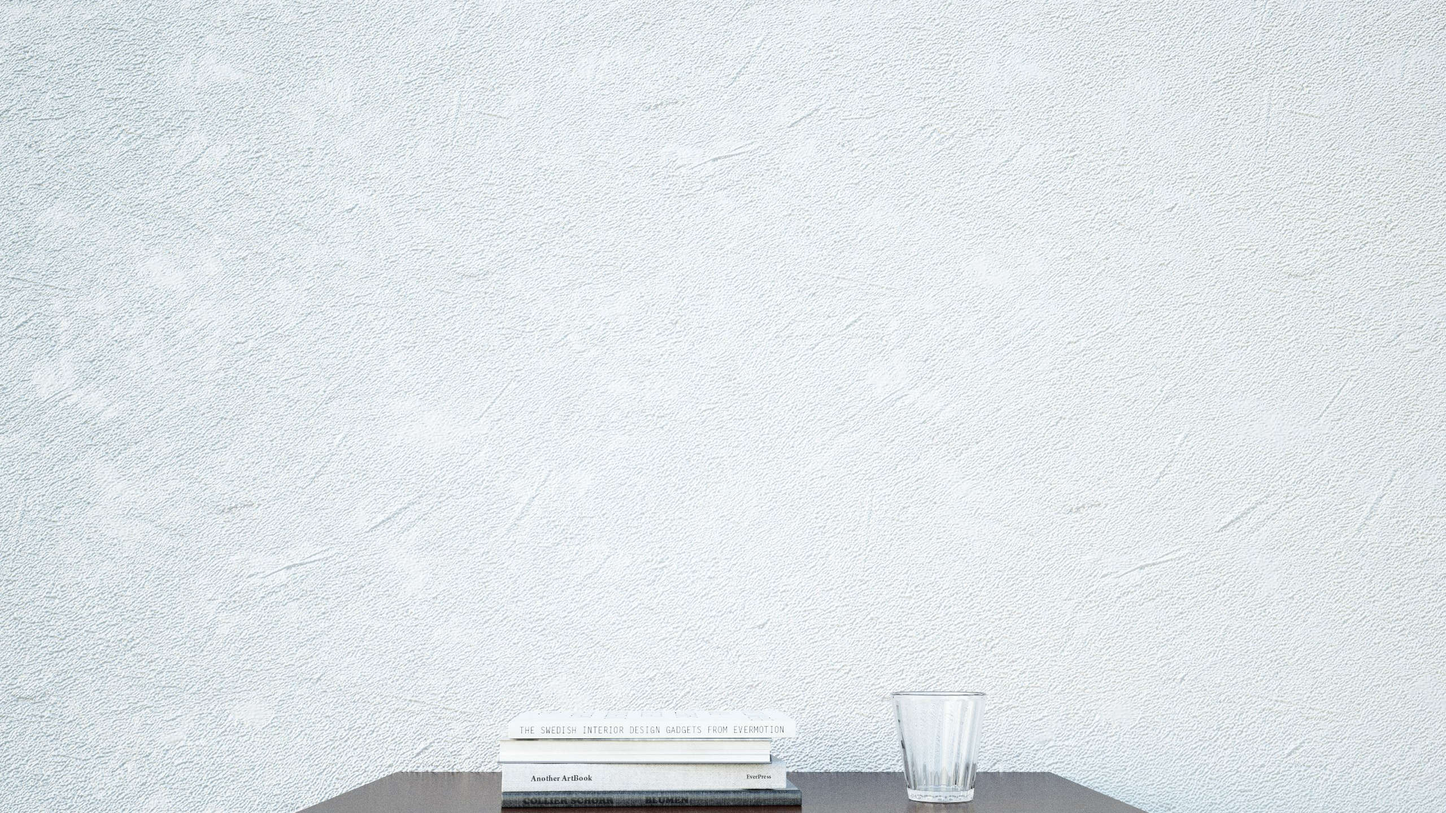
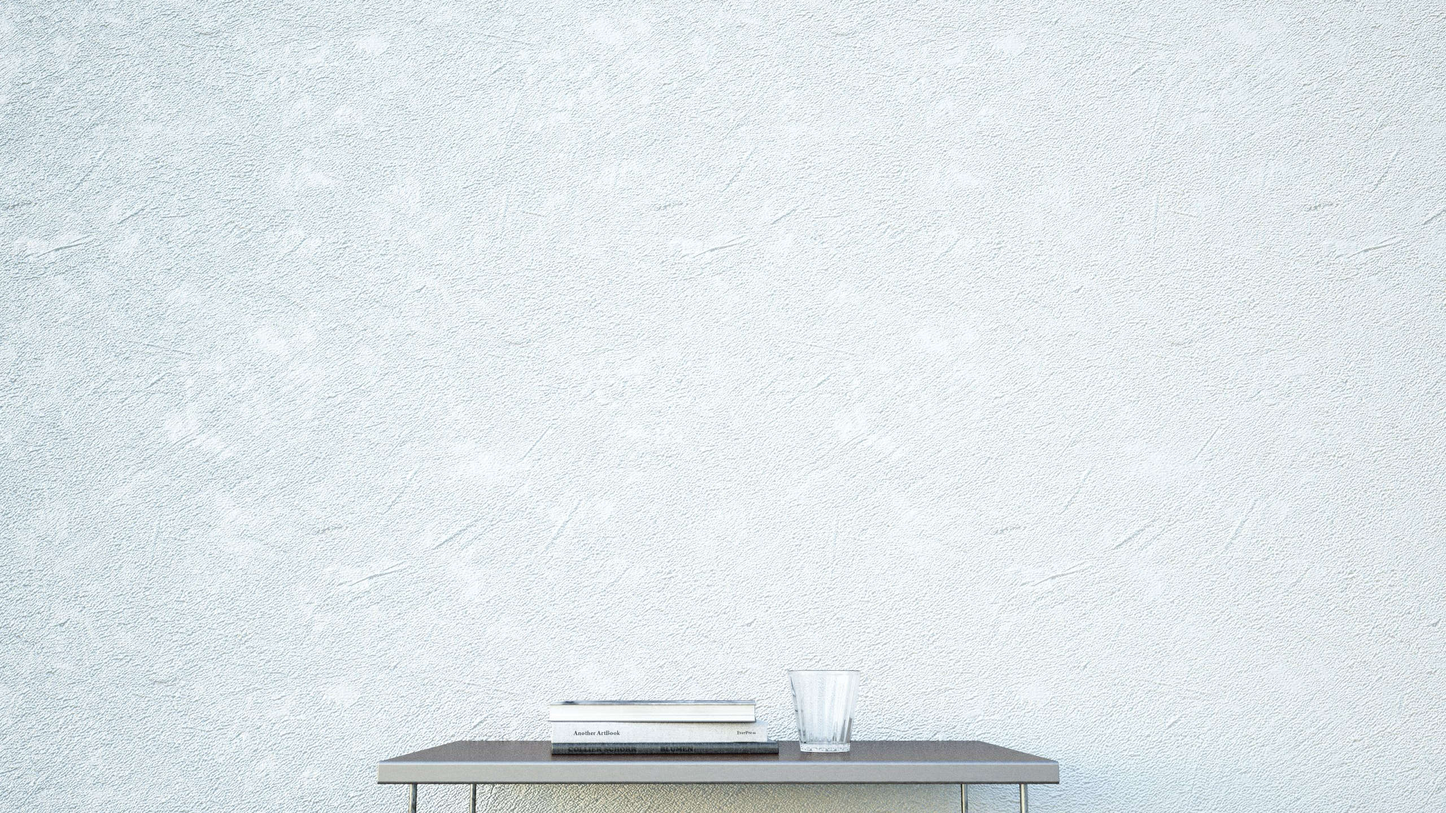
use different backgorund images for mobile, desktop
arrow down bug on iPad landscape

diff --git a/pages/index.tsx b/pages/index.tsx
@@ -100,7 +100,7 @@ const Root = styled.div`
           width: 50px;
           height: auto;
         }
-        @media screen and (max-height: 800px) and (orientation: landscape) {
+        @media screen and (max-height: 500px) and (orientation: landscape) {
           display: none;
         }
       }
@@ -342,8 +342,10 @@ const IndexPage: React.FC = () => {
 
   React.useEffect(() => {
     const backgroundImg = new Image();
-    backgroundImg.src = '/images/background/desktop.jpg';
-  }, []);
+    backgroundImg.src = `/images/background/${
+      innerWidth < 900 ? 'original' : 'desktop'
+    }.jpg`;
+  }, [innerWidth]);
 
   const getPhotoSize = React.useCallback(() => {
     const containerWidth = Math.min(innerWidth, 1100);

diff --git a/components/Slider/Photo.tsx b/components/Slider/Photo.tsx
@@ -54,11 +54,13 @@ const Root = styled(a.div)`
   }
 `;
 
-const BackgroundImage: React.FC = () => (
+const BackgroundImage: React.FC<{ desktop?: boolean }> = ({
+  desktop = false,
+}) => (
   <img
     className="background unselectable"
     alt="white flat wall made of stone"
-    src="/images/background/desktop.jpg"
+    src={`/images/background/${!desktop ? 'original' : 'desktop'}.jpg`}
   />
 );
 
@@ -149,7 +151,7 @@ const Photo: React.FC<props> = ({
         y,
         scale,
       }}>
-      <BackgroundImage />
+      <BackgroundImage desktop={innerWidth >= 900} />
       <img
         style={{ borderRadius: round ? '50%' : '0' }}
         className="photo-img unselectable"
